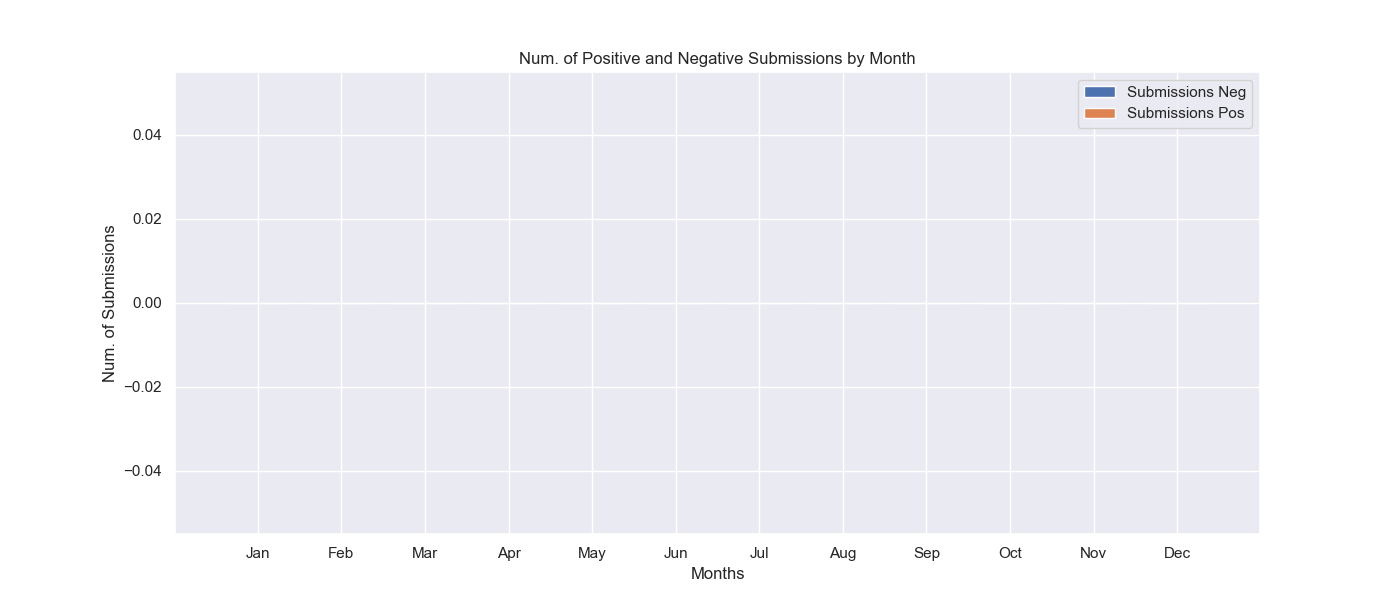
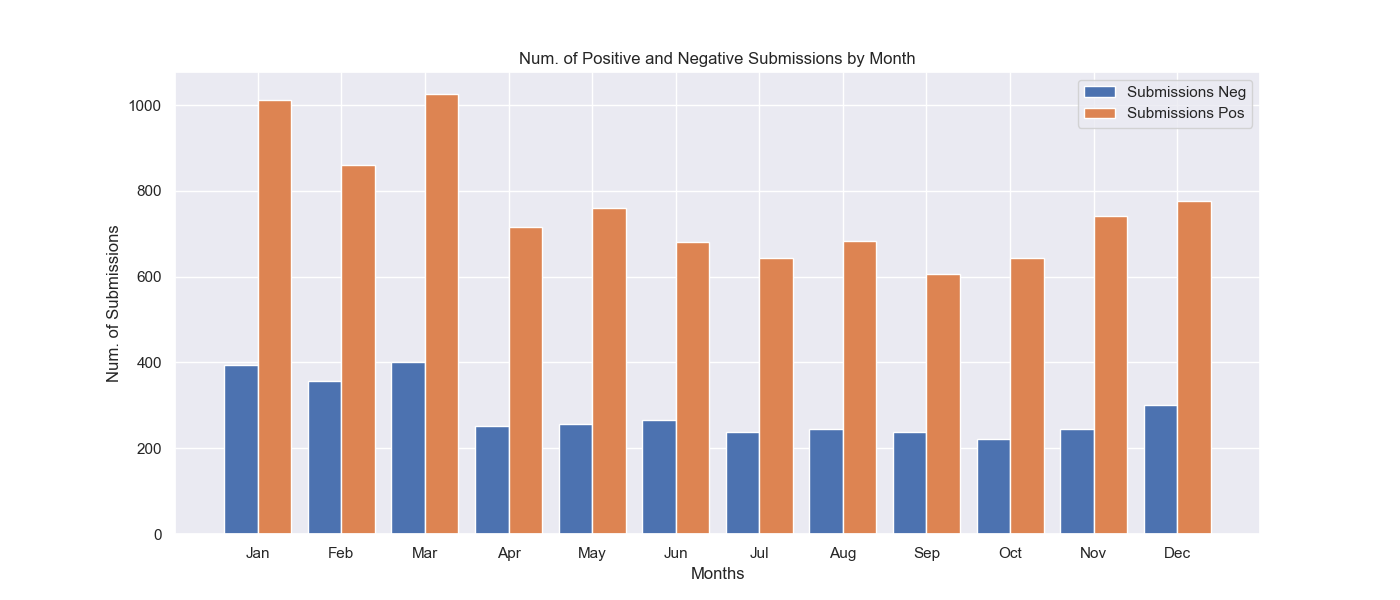
fix bug in making submissions_monthly.png plot

diff --git a/reddit_stats.py b/reddit_stats.py
@@ -40,7 +40,7 @@ def main(input_submissions, input_comments, output):
     winter_months = [12, 1, 2]
     spring_months = [3, 4, 5]
 
-    #plot
+    #submissions plot
 
     month_names = ['Jan', 'Feb', 'Mar', 'Apr', 'May', 'Jun', 
                    'Jul', 'Aug', 'Sep', 'Oct', 'Nov', 'Dec']
@@ -48,8 +48,8 @@ def main(input_submissions, input_comments, output):
     submissions_neg = reddit_submissions_data.where(functions.col('sentiment') == 0)
     submissions_pos = reddit_submissions_data.where(functions.col('sentiment') == 4)
 
-    monthly_submissions_neg = submissions_neg.groupby('month').agg(functions.count('num_comments').alias('total_subs_neg'))
-    monthly_submissions_pos = submissions_pos.groupby('month').agg(functions.count('num_comments').alias('total_subs_pos'))
+    monthly_submissions_neg = submissions_neg.groupby('month').agg(functions.count('*').alias('total_subs_neg'))
+    monthly_submissions_pos = submissions_pos.groupby('month').agg(functions.count('*').alias('total_subs_pos'))
 
     join_monthly = monthly_submissions_neg.join(monthly_submissions_pos, on='month').toPandas()
 
